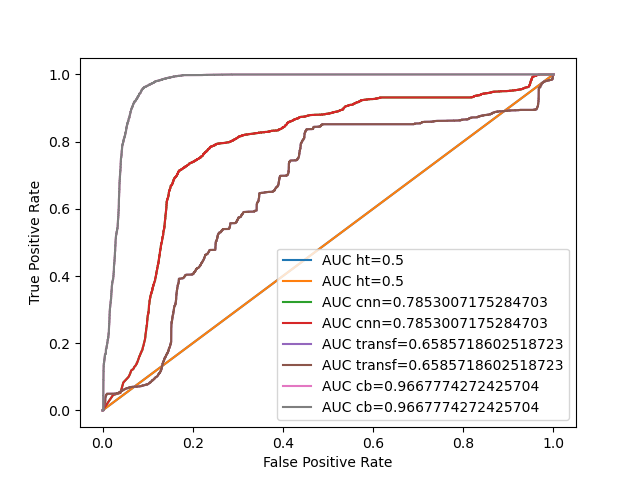
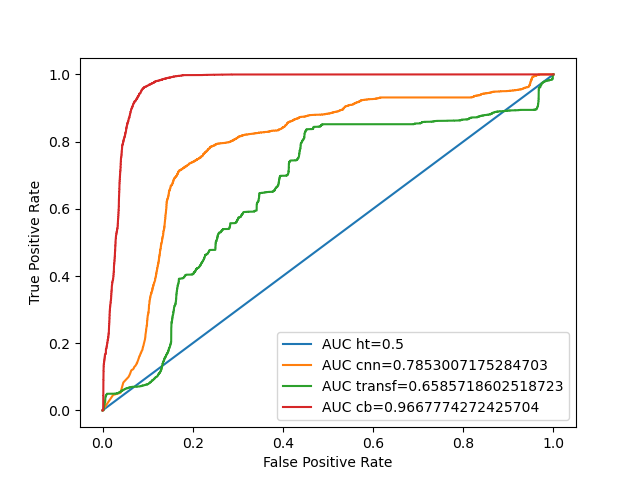
removed double label bug

diff --git a/tests/test_models.py b/tests/test_models.py
@@ -149,16 +149,16 @@ print("\tDone!")
 print("Calculating AUC ROC...")
 if TEST_HOEFTREE == 1:
     score_ht = roc_auc(Y, y_pred_ht, "ht")
-    plt_roc_curve_open(np.concatenate(Y), np.concatenate(y_pred_ht), score_ht[-1], "ht")
+    #plt_roc_curve_open(np.concatenate(Y), np.concatenate(y_pred_ht), score_ht[-1], "ht")
 if TEST_CNN == 1:
     score_cnn = roc_auc(Y, y_pred_cnn, "cnn")
-    plt_roc_curve_open(np.concatenate(Y), np.concatenate(y_pred_cnn), score_cnn[-1], "cnn")
+    #plt_roc_curve_open(np.concatenate(Y), np.concatenate(y_pred_cnn), score_cnn[-1], "cnn")
 if TEST_TRANSFORMER == 1:
     score_transf = roc_auc(Y, y_pred_transf, "transf")
-    plt_roc_curve_open(np.concatenate(Y), np.concatenate(y_pred_transf), score_transf[-1], "transf")
+    #plt_roc_curve_open(np.concatenate(Y), np.concatenate(y_pred_transf), score_transf[-1], "transf")
 if TEST_CAT_BOOST == 1:
     score_cb = roc_auc(Y, y_pred_cb, "cb")
-    plt_roc_curve_open(np.concatenate(Y), np.concatenate(y_pred_cb), score_cb[-1], "cb")
+    #plt_roc_curve_open(np.concatenate(Y), np.concatenate(y_pred_cb), score_cb[-1], "cb")
 
 save_plot()
 
